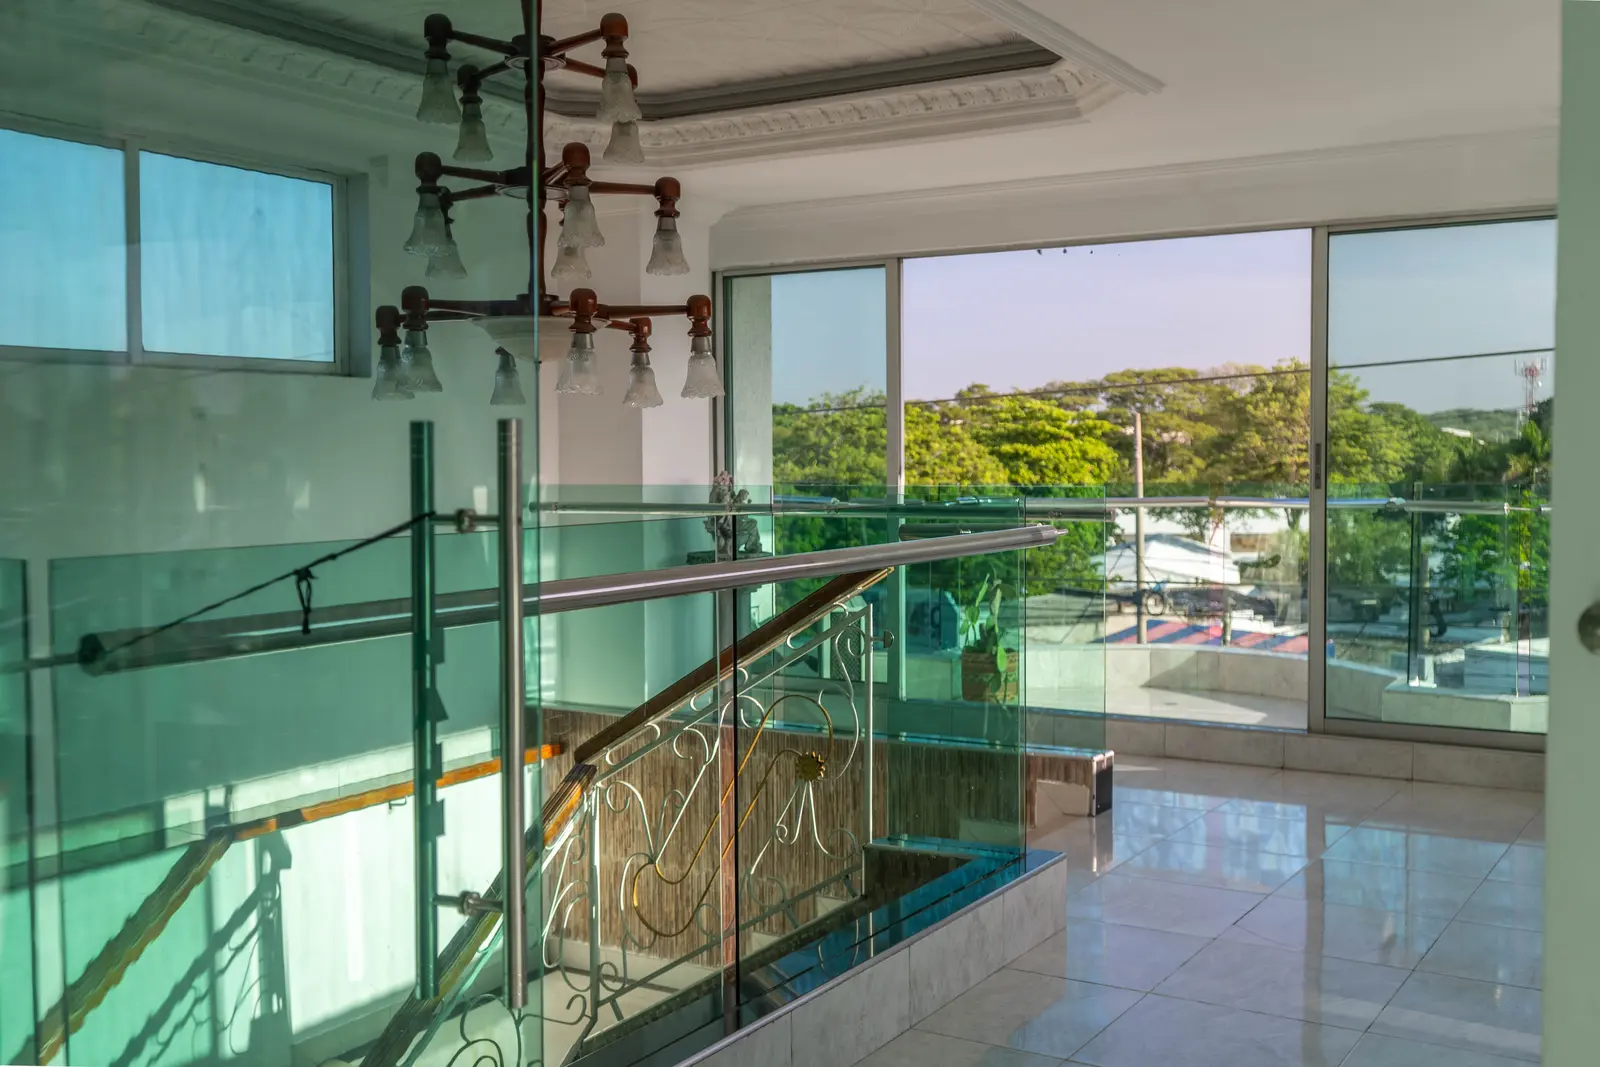
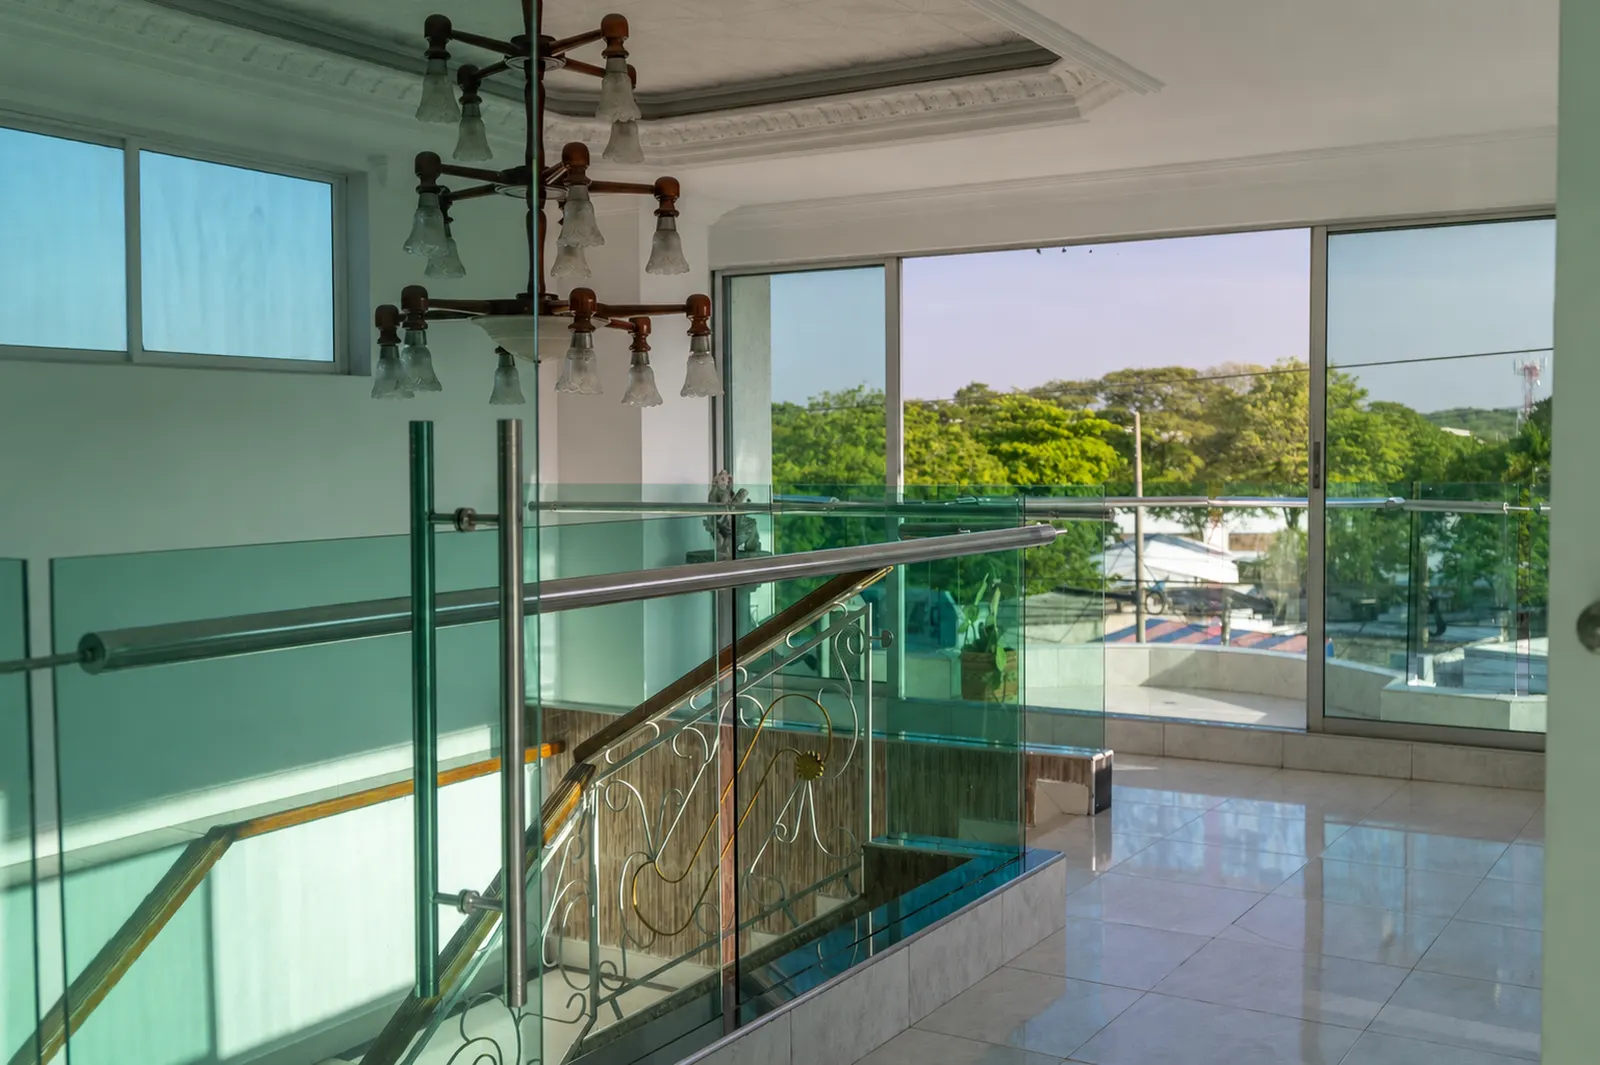
Corrige dos fotos y confirma Social de JeanPaul en 70
Foto de la sección Eventos (gala corporativa): se quita a la empleada
que aparecía de fondo cerca del escenario, con un retoque clonado del
área contigua (misma perspectiva y luz) — sin parches visibles.

Foto del lobby (carrusel de Hotel): se reemplaza por la nueva foto que
envió la clienta del mismo ángulo, sin la pita/cuerda que cruzaba el
balcón de vidrio.

JeanPaul (Social): confirmado en 70 por la clienta — coincide con el
Portafolio Corporativo, cierra la última discrepancia de datos abierta.

diff --git a/src/data/cartagenaComfort.ts b/src/data/cartagenaComfort.ts
@@ -116,8 +116,8 @@ export const BENEFICIOS_CORPORATIVOS = [
 //
 // Social: confirmado por la clienta y cruzado contra el Portafolio
 // Corporativo (págs. 8-12), que trae una tabla igual para los 5 salones.
-// Coinciden Galeón, Olimpo, Cartagena Comfort y Stephanie. PENDIENTE:
-// JeanPaul — la clienta dijo 60, pero el PDF de ella misma dice 70.
+// JeanPaul quedó en 70 (el valor del PDF) por indicación explícita de la
+// clienta tras señalarle la diferencia con lo que había dicho antes (60).
 export const SALONES = [
   {
     nombre: "Galeón",
@@ -133,7 +133,7 @@ export const SALONES = [
     auditorio: 130,
     aula: 82,
     tipoU: 60,
-    social: 60,
+    social: 70,
     valor: "$400.000",
     distintivo: "Privado · Acogedor · Dinámico — incluye Ante Sala, divisible en 2 espacios",
     partes: [
